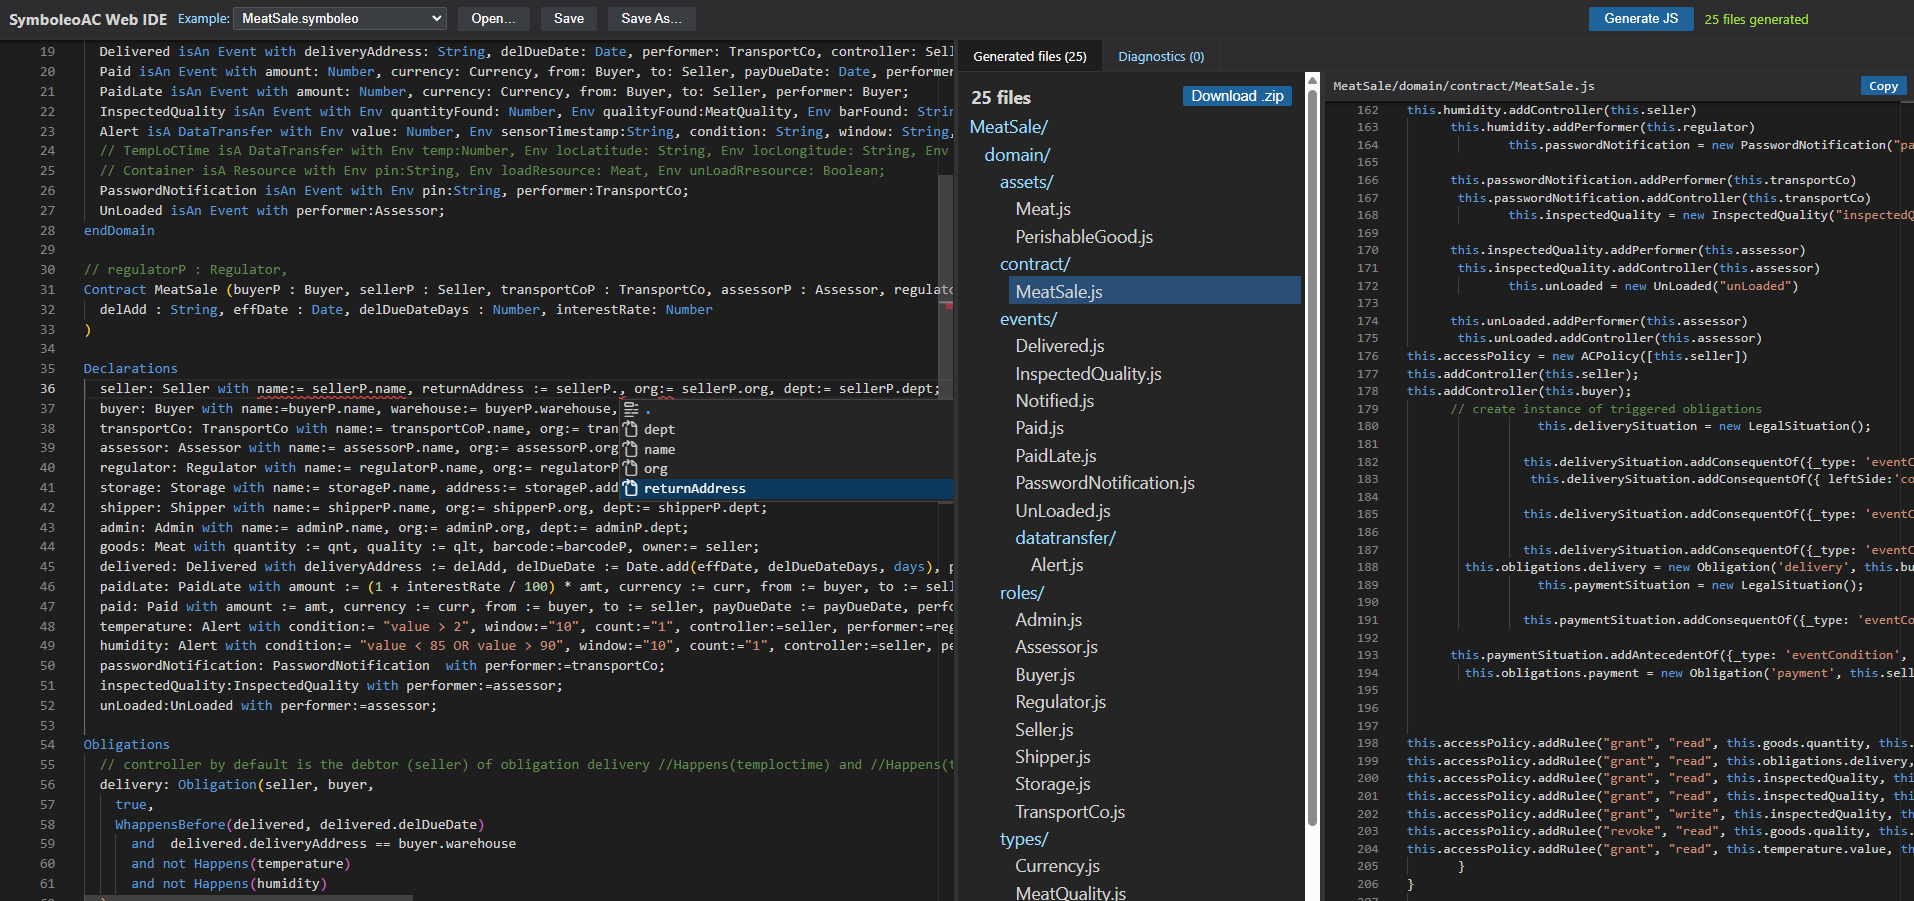
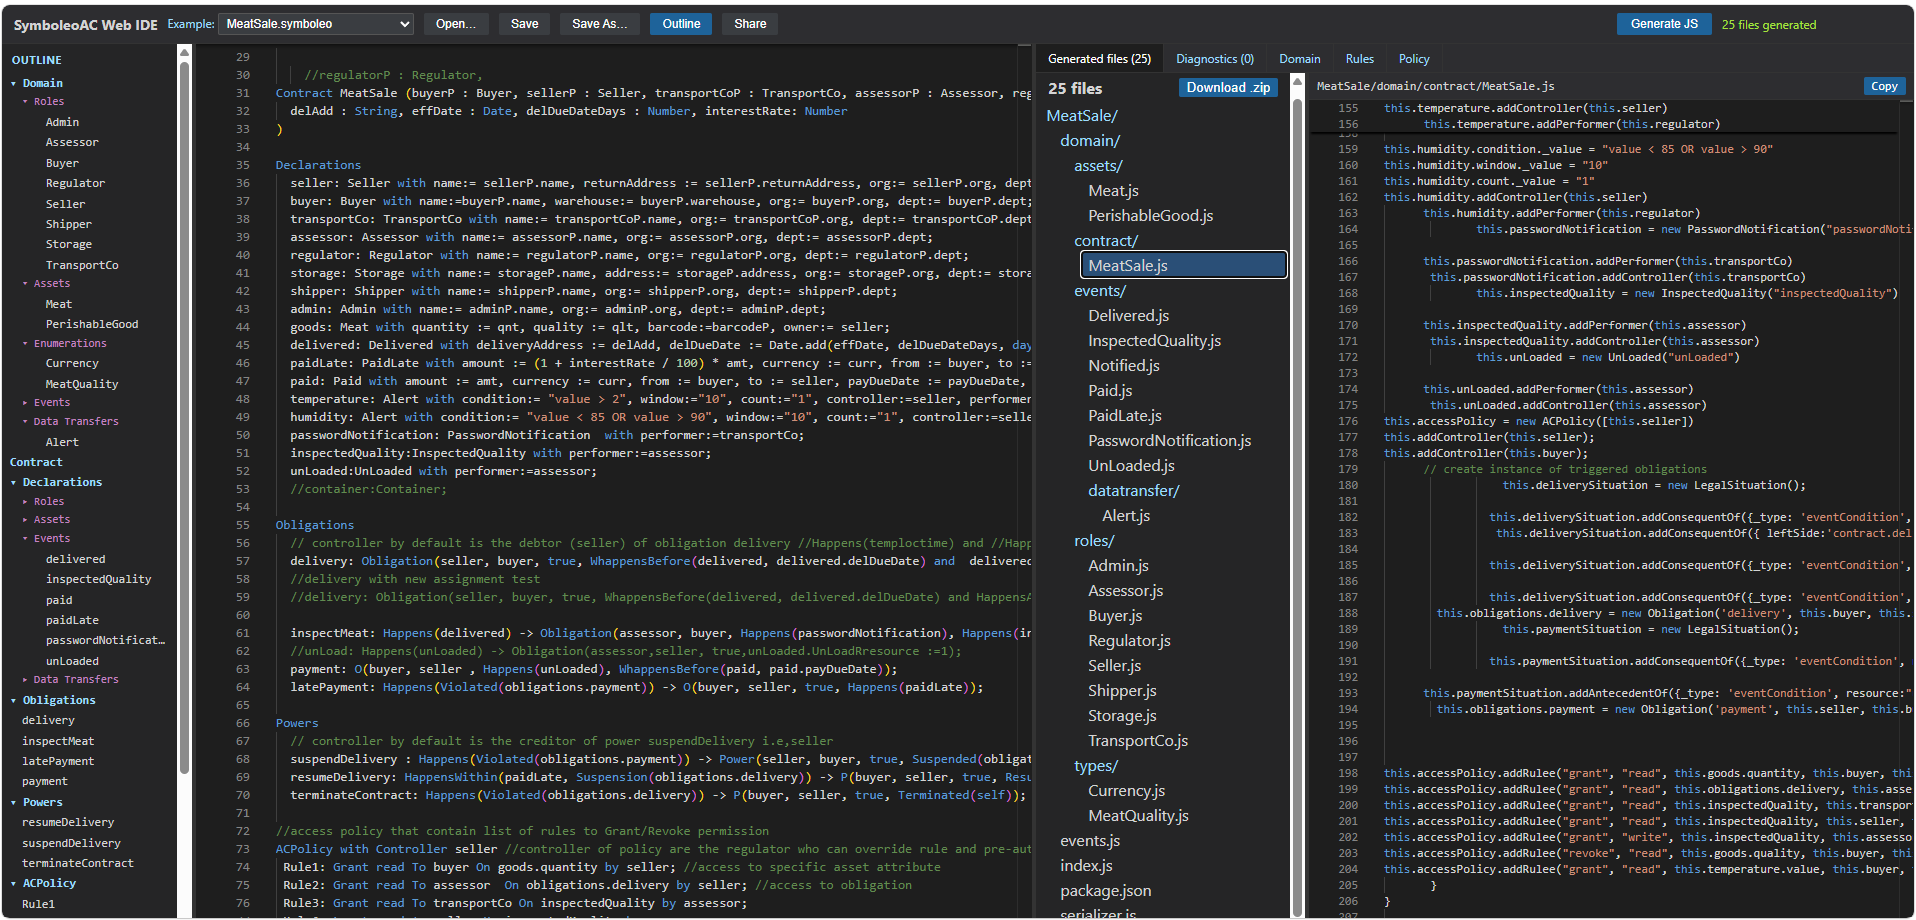
Update README with model-view screenshots and features
- Replace lead screenshot (now shows the Outline) and add three new
  screenshots: Domain class diagram, Rules network, Policy matrix.
- Extend the feature table with Structured outline, Domain class diagram,
  Rules network diagram, and Share-by-link.
- Refresh the For-users steps, architecture diagram (add /model endpoint),
  and bridge/codegen descriptions accordingly.

Changed region(s): [[0.0, 0.0, 1.0, 1.0], [0.9864, 0.0622, 1.0, 0.1243]]

diff --git a/README.md b/README.md
@@ -14,10 +14,20 @@
 
 ![SymboleoAC Web IDE screenshot](docs/screenshot.png)
 
-*The IDE at a glance — three resizable panels:*
-1. **Editor (left):** your SymboleoAC contract with syntax highlighting and live red‑squiggle diagnostics. Here the `MeatSale` example is open.
-2. **Generated files (middle):** after clicking **Generate JS**, the multi‑file JavaScript package appears as a navigable tree (`domain/contract`, `domain/roles`, `domain/events`, …) with a **Download .zip** button.
-3. **File viewer (right):** the selected generated file, JavaScript‑syntax‑highlighted and read‑only, with a one‑click **Copy**.
+*The IDE at a glance — resizable panels:*
+1. **Outline (far left):** the contract's structure — Domain and Declarations broken down by category (Roles, Assets, Events, …), plus Obligations, Powers, and the AC Policy. Sections expand/collapse and every entry is clickable to jump to it in the editor.
+2. **Editor:** your SymboleoAC contract with syntax highlighting and live red‑squiggle diagnostics. Here the `MeatSale` example is open.
+3. **Generated files:** after clicking **Generate JS**, the multi‑file JavaScript package appears as a navigable tree (`domain/contract`, `domain/roles`, `domain/events`, …) with a **Download .zip** button.
+4. **File viewer (right):** the selected generated file, JavaScript‑syntax‑highlighted and read‑only, with a one‑click **Copy**.
+
+### Visualize the model
+
+Beyond the editor, three tabs turn the contract into interactive diagrams — all auto‑generated from the live model as you type.
+
+| Domain class diagram | Rules network | Policy matrix |
+|---|---|---|
+| [![Domain view](docs/screenshot-domain.png)](docs/screenshot-domain.png) | [![Rules view](docs/screenshot-rules.png)](docs/screenshot-rules.png) | [![Policy view](docs/screenshot-policy.png)](docs/screenshot-policy.png) |
+| **Domain** — the domain ontology as a UML class diagram, colour‑coded by category (roles, assets, events, data transfers, enumerations), with inheritance, stereotypes, and named associations. Zoom and pan; relayouts to fill the panel. | **Rules** — access‑control rules as a colour‑coded network: parties with their obligations/powers, and rules pointing to their target role (green = Grant, red = Revoke). Hover a rule for the *On*/*by* details. | **Policy** — the access‑control policy as a roles × resources matrix, with ✓ Grant (green) / ✗ Revoke (red). |
 
 ---
 
@@ -34,7 +44,11 @@
 | 7 | **Built‑in examples** | Start instantly from real contracts (`MeatSale`, `VaccineProcurement`) via the **Example** dropdown. |
 | 8 | **Open & Save to disk** | Load a `.symboleo` file and save edits back **in place** (Chrome/Edge File System Access API), with **Save As** and a download fallback everywhere else. |
 | 9 | **Generated‑code browser** | Explore the generated package as a file tree, view each file with JS/JSON highlighting, **Copy** a file, or **Download .zip** the whole thing. |
-| 10 | **Zero‑install & secure** | A static front end on GitHub Pages talking to the backend over `wss://`/`https://` — open a URL and you're working. |
+| 10 | **Structured outline** | A live, sectioned outline of the contract — Domain and Declarations decomposed by category — with expand/collapse and click‑to‑navigate to any element in the editor. |
+| 11 | **Domain class diagram** | See the domain ontology as a colour‑coded UML class diagram (inheritance, stereotypes, associations) with zoom controls that relayout to fill the panel. |
+| 12 | **Rules network diagram** | Visualize access‑control rules as a colour‑coded network (green Grant / red Revoke) over the parties' obligations and powers — hover a rule for its *On*/*by* details. |
+| 13 | **Share by link** | The **Share** button packs the current contract into a URL — send it and the recipient opens the exact same model, no server storage. |
+| 14 | **Zero‑install & secure** | A static front end on GitHub Pages talking to the backend over `wss://`/`https://` — open a URL and you're working. |
 
 ---
 
@@ -43,8 +57,11 @@
 1. **Open the app:** <https://smart-contract-modelling-uottawa.github.io/SymboleoAC-Web/>
 2. **Start from an example** (Example dropdown) or **Open…** a `.symboleo` file from your computer.
 3. **Edit** — diagnostics update live; <kbd>Ctrl</kbd>+<kbd>Space</kbd> for completion; <kbd>Shift</kbd>+<kbd>Alt</kbd>+<kbd>F</kbd> to format.
-4. **Generate JS** — click the button; browse the generated files in the middle panel; **Copy** a file or **Download .zip**.
-5. **Save** / **Save As…** your contract back to disk.
+4. **Navigate** with the **Outline** — click any element to jump to it; expand/collapse the sections.
+5. **Visualize** — switch to the **Domain**, **Rules**, or **Policy** tabs to see the model as diagrams (zoom and hover for detail).
+6. **Generate JS** — click the button; browse the generated files; **Copy** a file or **Download .zip**.
+7. **Share** — click **Share** to copy a self‑contained link to the current contract.
+8. **Save** / **Save As…** your contract back to disk.
 
 > **Browser note:** *Save in place* and *Open* use the File System Access API (Chrome & Edge). Firefox/Safari fall back to a normal file‑open dialog and a download for saving. Everything else works in all modern browsers.
 
@@ -69,6 +86,7 @@
    │ Node bridge (Express + ws)                    │
    │  • /lsp      → spawns an Xtext LSP per session │
    │  • /generate → runs the JS code‑gen CLI        │
+   │  • /model    → extracts the structured model   │
    └───────────────┬──────────────────────────────┘
                    │ child process (stdio / stdin‑stdout)
    ┌───────────────▼──────────────────────────────┐
@@ -78,8 +96,8 @@
 ```
 
 - **Front end** — Vite + React + Monaco via `monaco-languageclient` v10. Syntax highlighting comes from a Monarch grammar auto‑extracted from the upstream `.xtext` grammar at build time.
-- **Bridge** — a small Node service that pipes LSP JSON‑RPC over a WebSocket to a per‑session `java` language server, and exposes `POST /generate`.
-- **Language tooling** — two self‑contained jars built from the vendored [`SymboleoAC-IDE`](https://github.com/Smart-Contract-Modelling-uOttawa/SymboleoAC-IDE) sources: the Xtext LSP server, and a headless JavaScript generator (`Symboleo2SC`).
+- **Bridge** — a small Node service that pipes LSP JSON‑RPC over a WebSocket to a per‑session `java` language server, and exposes `POST /generate` (JS code‑gen) and `POST /model` (structured model for the Outline and diagrams).
+- **Language tooling** — two self‑contained jars built from the vendored [`SymboleoAC-IDE`](https://github.com/Smart-Contract-Modelling-uOttawa/SymboleoAC-IDE) sources: the Xtext LSP server, and a headless CLI that both generates JavaScript (`Symboleo2SC`) and extracts the structured model (`--model`) used by the Outline and diagrams.
 - **TLS** — Caddy terminates HTTPS/WSS and auto‑provisions a Let's Encrypt certificate.
 
 ---
@@ -165,8 +183,8 @@ node bridge/test-generate.mjs                              # POST /generate
 | `JVM_XMX` | `512m` | heap per session |
 | `ALLOW_ORIGIN` | `*` | CORS origin for `/generate` (lock to the Pages origin in prod) |
 | `IDLE_TIMEOUT_MS` | `600000` | reap idle LSP sessions |
-| `RATE_MAX` / `RATE_WINDOW_MS` | `20` / `60000` | per‑IP rate limit on `/generate` |
-| `MAX_CONCURRENT_GEN` | `4` | cap on simultaneous code‑gen processes |
+| `RATE_MAX` / `RATE_WINDOW_MS` | `20` / `60000` | per‑IP rate limit on `/generate` and `/model` |
+| `MAX_CONCURRENT_GEN` | `4` | cap on simultaneous code‑gen / model processes |
 
 Full list and endpoint docs: [`bridge/README.md`](bridge/README.md).
 